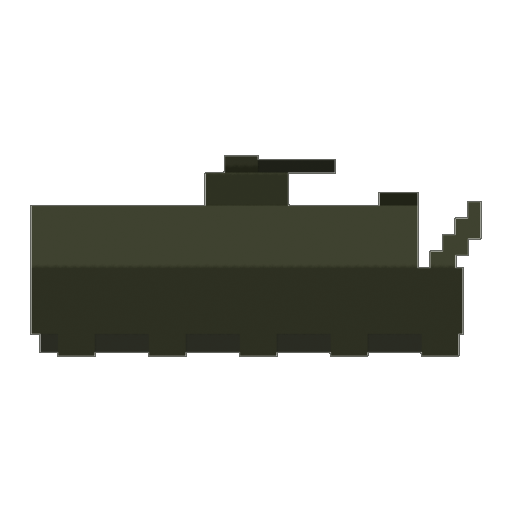
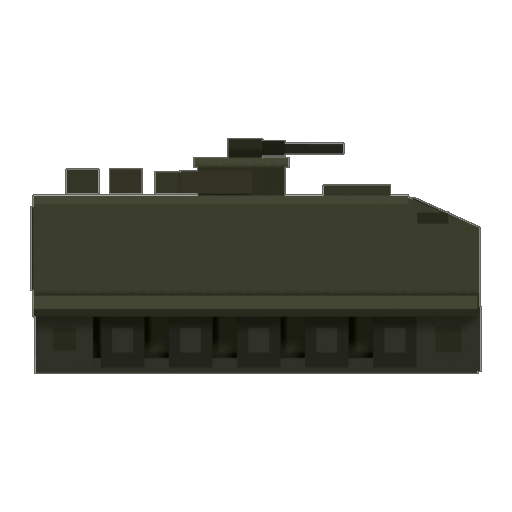
Bullets stop hurting the APC, and the hit starts reading
Armour used to take 0.28x from small arms. That is not a wall, it is a grind: a
260 HP hull falls to about a thousand rifle rounds, so the honest answer to an
APC was to keep shooting it, and the RPG gunner and the sapper were a shortcut
rather than the answer. Small arms now do NOTHING to a hull. The APC becomes a
problem you need the right tool for.

Measured, one APC against a fixed force, before and after:

  RPG team     14.7s  ->  14.9s     the intended counter, unchanged
  sappers      59.8s  ->  92.7s     satchels still work
  NVA rifles   never  ->  29.5s     four riflemen no longer kill armour
  grenades     ~146s  ->  ~146s     still a counter, still slow

That third line is the change working, not a regression, and the AI already
reaches for `rpgteam` first the moment it sees armour, so the answer is always
on the board.

ZERO DAMAGE HAS TO BE LOUD or it reads as a broken hit test. Rounds coming off
the hull throw sparks, ring, and say ARMOUR every few seconds. The rates are
measured under two NVA squads' fire: 3 sparks and 1.5 ricochets a second. The
first version shared one cooldown and gave 2.5 and 2.4 — the sparks read as
armour and the ricochets read as a stuck tone, because the eye tolerates a rate
the ear does not, so the sound now runs on its own slower clock.

A warhead getting through rocks the hull away from the hit, throws spall and
smoke off the plate, and says HULL HIT. Firing an RPG now has backblast — the
[…]

Changed region(s): [[0.0312, 0.25, 0.9688, 0.75]]

diff --git a/js/game.js b/js/game.js
@@ -1795,7 +1795,22 @@ class Game {
     this.fx.muzzle(mx, my, u.dir, scale, !!d.mg);
     this.fx.casing(u.x + u.dir * 2 * scale, my + 3, u.dir, scale);
     if (u.shots % 4 === 0) this.fx.addDecal(u.lane, u.x - u.dir * 3 + rand(-4, 4), 'casing', 1);
-    if (d.at) Sound.rocket(mx);
+    if (d.at) {
+      Sound.rocket(mx);
+      /* BACKBLAST. A B-40 is a recoilless launcher: everything the rocket does
+       * not push forward goes out of the back of the tube in a cone of dust and
+       * smoke. It is the most recognisable thing about firing one and the game
+       * did not draw it at all — the shot read as a rifle with a loud sound.
+       *
+       * It is also the tell that gives the gunner's position away, which is the
+       * honest reason to draw it: the player should be able to see where the
+       * rocket came from. */
+      const bx = u.x - u.dir * 18 * scale;
+      this.fx.smokePuff(bx, my + 3 * scale);
+      this.fx.smokePuffSmall(bx - u.dir * 12 * scale, my + 6 * scale);
+      this.fx.suppressDust(bx, groundY(this.map, u.lane, bx), -u.dir, scale);
+      this.fx.sparks(mx + u.dir * 6 * scale, my);
+    }
     else Sound.shot(d.mg ? 'mg' : u.side === 'us' ? 'm16' : 'ak', mx);
     if (Math.random() < 0.08) this.tryBirds(u.x);
 
@@ -1846,12 +1861,21 @@ class Game {
         /* A rocket does not "hit a man" — it detonates. Area damage, flagged
          * heavy so armour is no defence, which is the whole reason the weapon
          * exists. */
+        // the rocket's own smoke trail, so the shot has a visible flight path
+        // rather than being a hit that simply happens at the far end
+        const n = 6;
+        for (let i = 1; i <= n; i++) {
+          const k = i / (n + 1);
+          this.fx.smokePuffSmall(mx + (t.x - mx) * k, my + (t.y - 12 - my) * k);
+        }
         this.fx.explosion(t.x, t.y - 10, 46, { shake: 6 });
         this._areaDamage(u.lane, t.x, d.blast || 44, dmg, { side: u.side }, u.side);
         this.fx.punch(0.06, u.dir, -0.2);
       } else {
         this._damage(t, dmg, u);
-        if (!t.isHole) this.fx.blood(t.x, t.y, LANE_DEPTH[t.lane]);
+        // a hull does not bleed — _damage draws the ricochet instead
+        const armoured = !t.isHole && UNITS[t.key] && UNITS[t.key].armour;
+        if (!t.isHole && !armoured) this.fx.blood(t.x, t.y, LANE_DEPTH[t.lane]);
       }
     } else {
       // rounds go long or drop short — visibly
@@ -1908,10 +1932,20 @@ class Game {
     // armour turns rifle fire aside; a satchel, mine or shell goes straight through
     const arm = !t.isHole && UNITS[t.key] && UNITS[t.key].armour;
     if (arm) {
-      // Rifle fire is nearly useless against a hull; a shaped charge is the
-      // opposite. Five satchels to kill made the APC a wall rather than a
-      // decision — two is the trade that keeps sappers relevant.
-      dmg *= opts.heavy ? 2.4 : (1 - arm) * 0.42;
+      /* SMALL ARMS DO NOT KILL ARMOUR. Not "less", none.
+       *
+       * Rifle fire used to do 0.28x, which is not a wall — it is a grind. A
+       * 260 HP hull falls to about a thousand rounds, so the honest answer to
+       * an APC was to keep shooting it, and the RPG gunner and the sapper were
+       * a shortcut rather than the answer. Zero makes the APC a PROBLEM: you
+       * need a shaped charge, a satchel, a grenade or a shell, and if you have
+       * none of those you have to manoeuvre around it.
+       *
+       * The deflection has to be loud, or this reads as a bug rather than as
+       * armour — see _armourDeflect. */
+      if (!opts.heavy) { this._armourDeflect(t, killer); return; }
+      dmg *= 2.4;
+      this._armourImpact(t, killer);
     }
     /* A sniper is very hard to answer at distance.
      *
@@ -1943,6 +1977,50 @@ class Game {
         t.hitT = Math.max(t.hitT || 0, 0.16);
         t.hitCd = 0.62;
       }
+    }
+  }
+
+  /* Rounds coming off a hull. The player must SEE that the bullets are doing
+   * nothing, or zero damage reads as a broken hit test. Rate-limited hard: a
+   * .50 and two rifles on one track would otherwise be a continuous shower of
+   * sparks and a solid tone of ricochets. */
+  _armourDeflect(t, killer) {
+    if ((t.clangCd || 0) > 0) return;
+    t.clangCd = 0.16;
+    const sc = LANE_DEPTH[t.lane];
+    const dir = killer && killer.x != null ? Math.sign(killer.x - t.x) || 1 : 1;
+    const hx = t.x + dir * 14 * sc, hy = t.y - rand(14, 30) * sc;
+    this.fx.sparks(hx, hy);
+    /* The SOUND is thinner than the sparks, on its own clock.
+     *
+     * Measured under two NVA squads' fire: one shared cooldown gave 2.5 sparks
+     * and 2.4 ricochets a second — the sparks read as armour, the ricochets
+     * read as a stuck tone. The eye tolerates a rate the ear does not. */
+    if ((t.clangSndCd || 0) <= 0 && Camera.sees(t.x, 60)) {
+      t.clangSndCd = 0.42;
+      Sound.ricochet(hx);
+    }
+    // and once in a while, say it in words
+    if ((t.clangSayCd || 0) <= 0 && Camera.sees(t.x, 60)) {
+      t.clangSayCd = 4.5;
+      this.fx.floater(t.x, t.y - 44 * sc, 'ARMOUR', '#c9cbb4');
+    }
+  }
+
+  /* A warhead getting through. The blast draws its own explosion at the point
+   * of detonation; this is the hull's reaction to it — a hot spall flash, smoke
+   * off the plate, and the track physically rocking away from the hit. */
+  _armourImpact(t, killer) {
+    const sc = LANE_DEPTH[t.lane];
+    const dir = killer && killer.x != null ? Math.sign(t.x - killer.x) || 1 : 1;
+    t.jolt = Math.min(7, (t.jolt || 0) + 5) * dir;
+    this.fx.sparks(t.x - dir * 10 * sc, t.y - 20 * sc);
+    this.fx.sparks(t.x - dir * 4 * sc, t.y - 30 * sc);
+    this.fx.smokePuff(t.x, t.y - 26 * sc);
+    this.fx.dirtKick(t.x, t.y, sc, true);
+    if (Camera.sees(t.x, 80)) {
+      this.fx.shake = Math.min(14, this.fx.shake + 3);
+      this.fx.floater(t.x, t.y - 52 * sc, 'HULL HIT', '#ffb08a');
     }
   }
 
@@ -2044,6 +2122,14 @@ class Game {
       u.spotT = Math.max(0, u.spotT - dt);
       u.hitT = Math.max(0, (u.hitT || 0) - dt);
       u.hitCd = Math.max(0, (u.hitCd || 0) - dt);
+      u.clangCd = Math.max(0, (u.clangCd || 0) - dt);
+      u.clangSayCd = Math.max(0, (u.clangSayCd || 0) - dt);
+      u.clangSndCd = Math.max(0, (u.clangSndCd || 0) - dt);
+      // the hull rocks back from a warhead and settles
+      if (u.jolt) {
+        u.jolt *= Math.max(0, 1 - dt * 7);
+        if (Math.abs(u.jolt) < 0.05) u.jolt = 0;
+      }
       u.combatT = Math.max(0, (u.combatT || 0) - dt);
       u.transT = Math.max(0, (u.transT || 0) - dt);
 

diff --git a/js/render.js b/js/render.js
@@ -4853,7 +4853,8 @@ const Renderer = {
       const rk = (u.muzzleT || 0) > 0
         ? Math.min(1, (u.muzzleT || 0) / 0.11) * 3.0 * scale : 0;
       drawSoldier(ctx, u.key, {
-        x: u.x - u.dir * rk, y: u.y + (u.yj || 0) - towerLift + proneDrop - rk * 0.35,
+        // `jolt` rocks an armoured hull away from a warhead strike
+        x: u.x - u.dir * rk + (u.jolt || 0), y: u.y + (u.yj || 0) - towerLift + proneDrop - rk * 0.35,
         dir: u.dir, scale,
         // debounced (see MOVE_HOLD) — the raw flag flickers sub-100ms and that
         // reached the screen as clip thrash

diff --git a/tools/render_props.py b/tools/render_props.py
@@ -318,32 +318,90 @@ def build_watchtower():
 def build_m113():
     """An M113 APC, side on.
 
-    Box geometry failed badly on the watchtower, but that was an OPEN LATTICE —
-    a frame of thin members with air between them. A hull is the opposite case:
-    solid closed volumes, which is exactly what boxes are good at. Sloped glacis,
-    slab sides, track run with road wheels, and the commander's .50 cupola.
+    The first version was boxes in one colour, and at the ~50px it is actually
+    drawn it read as a dark green slab with a staircase on the front. Three
+    things were wrong and all three are about READING at size, not detail:
+
+      - no value separation. Hull, fenders, tracks and glacis were all within a
+        few percent of each other, so there was no silhouette inside the
+        silhouette — nothing to tell you where the vehicle ended and the running
+        gear began.
+      - the glacis was built as five stacked boxes to fake a slope. At size that
+        is a staircase, and a staircase is the one shape armour never has.
+      - the running gear was invisible. A tracked vehicle is read by its track
+        run and road wheels more than by its hull.
+
+    So: a real sloped plate, a track assembly two full values darker than the
+    hull, a lit deck line, and the stowage that makes an APC look used rather
+    than delivered.
     """
-    hull = _pmat('v_hull', (0.088, 0.104, 0.056))
-    dark = _pmat('v_dark', (0.038, 0.044, 0.026))
-    steel = _pmat('v_steel', (0.030, 0.032, 0.034))
-    L, W = 2.45, 1.30                       # half-length, half-width
-    _box(hull, -L, -W, 0.62, L * 0.72, W, 1.70)          # main body
-    # sloped glacis, stepped so it reads as a slope in profile
-    for i in range(5):
-        t0, t1 = i / 5, (i + 1) / 5
-        _box(hull, L * 0.72 + (L * 0.28) * t0, -W, 0.62 + 0.90 * t0,
-             L * 0.72 + (L * 0.28) * t1, W, 0.62 + 0.90 * t1 + 0.22)
-    _box(dark, -L, -W - 0.06, 0.30, L * 0.92, -W + 0.10, 1.02)   # track guards
-    _box(dark, -L, W - 0.10, 0.30, L * 0.92, W + 0.06, 1.02)
-    for sy in (-W - 0.02, W - 0.10):                              # track runs
-        _box(steel, -L * 0.96, sy, 0.10, L * 0.90, sy + 0.12, 0.66)
-        for i in range(5):                                        # road wheels
-            x = -L * 0.80 + i * (L * 1.62 / 4)
-            _box(dark, x - 0.20, sy - 0.03, 0.06, x + 0.20, sy + 0.15, 0.56)
-    _box(hull, -0.55, -0.48, 1.70, 0.35, 0.48, 2.06)              # cupola
-    _box(steel, -0.10, -0.09, 2.06, 0.86, 0.09, 2.20)             # .50 cal
-    _box(dark, -0.34, -0.30, 2.04, 0.02, 0.30, 2.24)              # shield
-    _box(dark, L * 0.55, -0.50, 1.70, L * 0.72, 0.50, 1.84)       # driver hatch
+    hull = _pmat('v_hull', (0.076, 0.088, 0.048))
+    deck = _pmat('v_deck', (0.112, 0.126, 0.070))   # lit top surfaces
+    dark = _pmat('v_dark', (0.026, 0.030, 0.019))   # recesses and shadow
+    steel = _pmat('v_steel', (0.044, 0.046, 0.048))
+    rubber = _pmat('v_rubber', (0.017, 0.017, 0.018))
+    canvas = _pmat('v_canvas', (0.128, 0.106, 0.068))
+
+    L, W = 2.36, 1.30          # half-length, half-width
+    Z0, Z1 = 0.92, 2.02        # hull bottom / top
+
+    # ---- running gear, darkest and read first --------------------------------
+    _poly(dark, [(-L * 0.99, 0.16), (-L * 0.99, 0.86), (L * 0.94, 0.86),
+                 (L * 0.99, 0.52), (L * 0.94, 0.16)], y=0.0, yt=W * 0.80)
+    for sy in (-W * 0.92, W * 0.78):
+        # the track band itself, a shade up from the shadow inside it
+        _box(steel, -L * 0.99, sy, 0.14, L * 0.99, sy + W * 0.14, 0.30)
+        _box(steel, -L * 0.99, sy, 0.74, L * 0.94, sy + W * 0.14, 0.88)
+        # drive sprocket forward, idler aft, five road wheels between
+        for x, r in [(L * 0.86, 0.34), (-L * 0.86, 0.30)]:
+            _box(steel, x - r, sy - 0.02, 0.50 - r, x + r, sy + W * 0.16, 0.50 + r)
+            _box(dark, x - r * 0.4, sy - 0.03, 0.50 - r * 0.4,
+                 x + r * 0.4, sy + W * 0.17, 0.50 + r * 0.4)
+        for i in range(5):
+            x = -L * 0.60 + i * (L * 1.22 / 4)
+            _box(rubber, x - 0.23, sy - 0.02, 0.20, x + 0.23, sy + W * 0.16, 0.78)
+            _box(steel, x - 0.11, sy - 0.03, 0.36, x + 0.11, sy + W * 0.17, 0.62)
+
+    # ---- hull ---------------------------------------------------------------
+    _box(hull, -L, -W, Z0, L * 0.66, W, Z1)
+    # sloped glacis as ONE plate, not a stack of steps
+    _poly(hull, [(L * 0.66, Z0), (L * 0.66, Z1), (L * 1.00, Z1 - 0.34),
+                 (L * 1.00, Z0 - 0.18)], y=0.0, yt=W)
+    # fenders: a lit horizontal that separates hull from track
+    _box(deck, -L, -W - 0.10, Z0 - 0.10, L * 0.99, W + 0.10, Z0 + 0.04)
+    _box(dark, -L, -W - 0.10, Z0 - 0.18, L * 0.99, W + 0.10, Z0 - 0.10)
+    # deck line along the top, so the roof catches light
+    _box(deck, -L, -W, Z1 - 0.09, L * 0.68, W, Z1)
+
+    # ---- fittings -----------------------------------------------------------
+    # trim vane folded flat on the glacis
+    _poly(steel, [(L * 0.70, Z1 - 0.02), (L * 0.99, Z1 - 0.33),
+                  (L * 0.99, Z1 - 0.45), (L * 0.70, Z1 - 0.14)], y=0.0, yt=W * 0.92)
+    # driver's hatch and vision blocks
+    _box(deck, L * 0.30, -0.46, Z1, L * 0.60, 0.46, Z1 + 0.11)
+    _box(dark, L * 0.72, -W - 0.01, Z1 - 0.30, L * 0.86, -W + 0.06, Z1 - 0.18)
+    # commander's cupola, ring and .50
+    _box(hull, -0.62, -0.52, Z1, 0.30, 0.52, Z1 + 0.34)
+    _box(deck, -0.66, -0.56, Z1 + 0.30, 0.34, 0.56, Z1 + 0.40)
+    _box(dark, -0.30, -0.34, Z1 + 0.38, 0.06, 0.34, Z1 + 0.60)   # shield
+    _box(steel, -0.04, -0.055, Z1 + 0.44, 0.92, 0.055, Z1 + 0.55)  # barrel
+    _box(dark, 0.06, -0.08, Z1 + 0.42, 0.30, 0.08, Z1 + 0.58)      # receiver
+    # exhaust down the right side
+    _box(dark, L * 0.10, W - 0.04, Z1 - 0.42, L * 0.62, W + 0.12, Z1 - 0.22)
+    # rear ramp seam
+    _box(dark, -L - 0.02, -W + 0.05, Z0 + 0.10, -L + 0.06, W - 0.05, Z1 - 0.12)
+
+    # ---- stowage: what makes it look used --------------------------------
+    import random as _r
+    _r.seed(97)
+    for i in range(4):
+        x = -L * 0.86 + i * 0.44 + _r.random() * 0.10
+        h = 0.16 + _r.random() * 0.12
+        _box(canvas if i % 2 else deck, x, -0.54, Z1 + 0.02,
+             x + 0.34, 0.54, Z1 + 0.02 + h)
+    _box(canvas, -L * 0.34, -0.60, Z1 + 0.02, -L * 0.02, 0.60, Z1 + 0.26)
+    # a jerrican on the fender
+    _box(dark, -L * 0.72, W - 0.02, Z0 + 0.06, -L * 0.50, W + 0.14, Z0 + 0.42)
 
 
 def build_huey():
